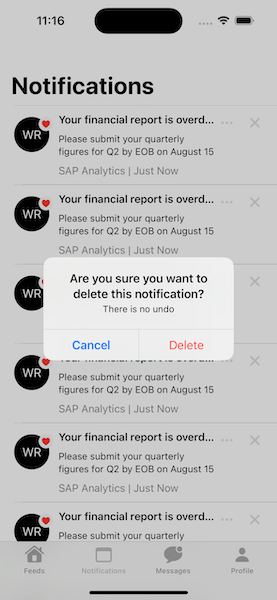
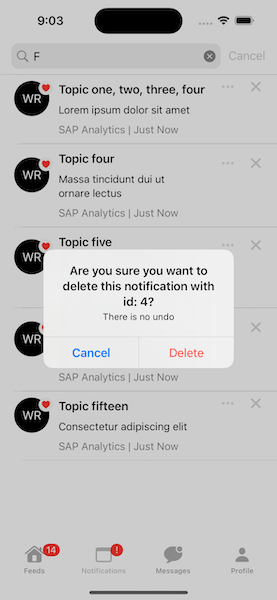
notifications screenshots

diff --git a/README.md b/README.md
@@ -61,6 +61,8 @@ A mobile application for bringing **digital training solution** in the luxury re
 	<img src="images/notifications.png" alt="Notifications" height="400">
 	<img src="images/notifications-menu.png" alt="Notifications Menu" height="400">
 	<img src="images/notifications-alert.png" alt="Notifications Alert" height="400">
+	<img src="images/notifications-search-bar.png" alt="Notifications Search Bar" height="400">
+	<img src="images/notifications-search-by-title.png" alt="Notifications Search By Title" height="400">
 </p>
 
 <p float="left">
